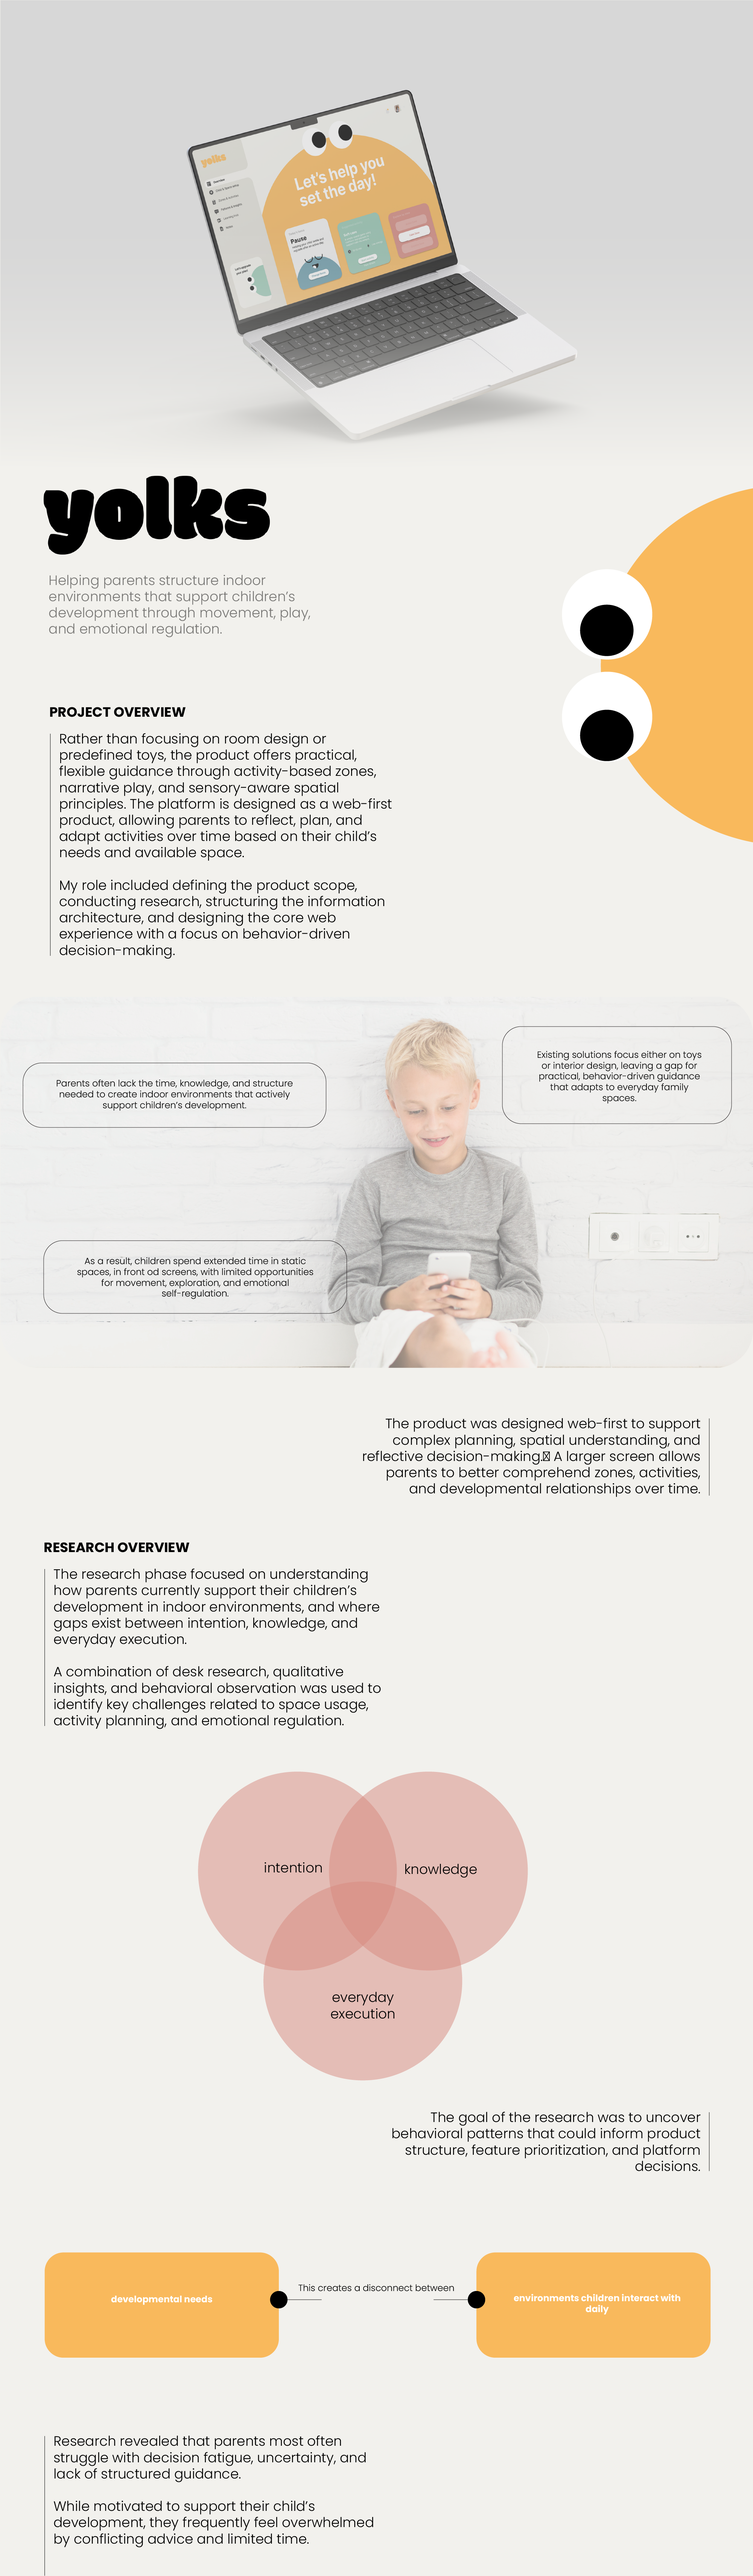
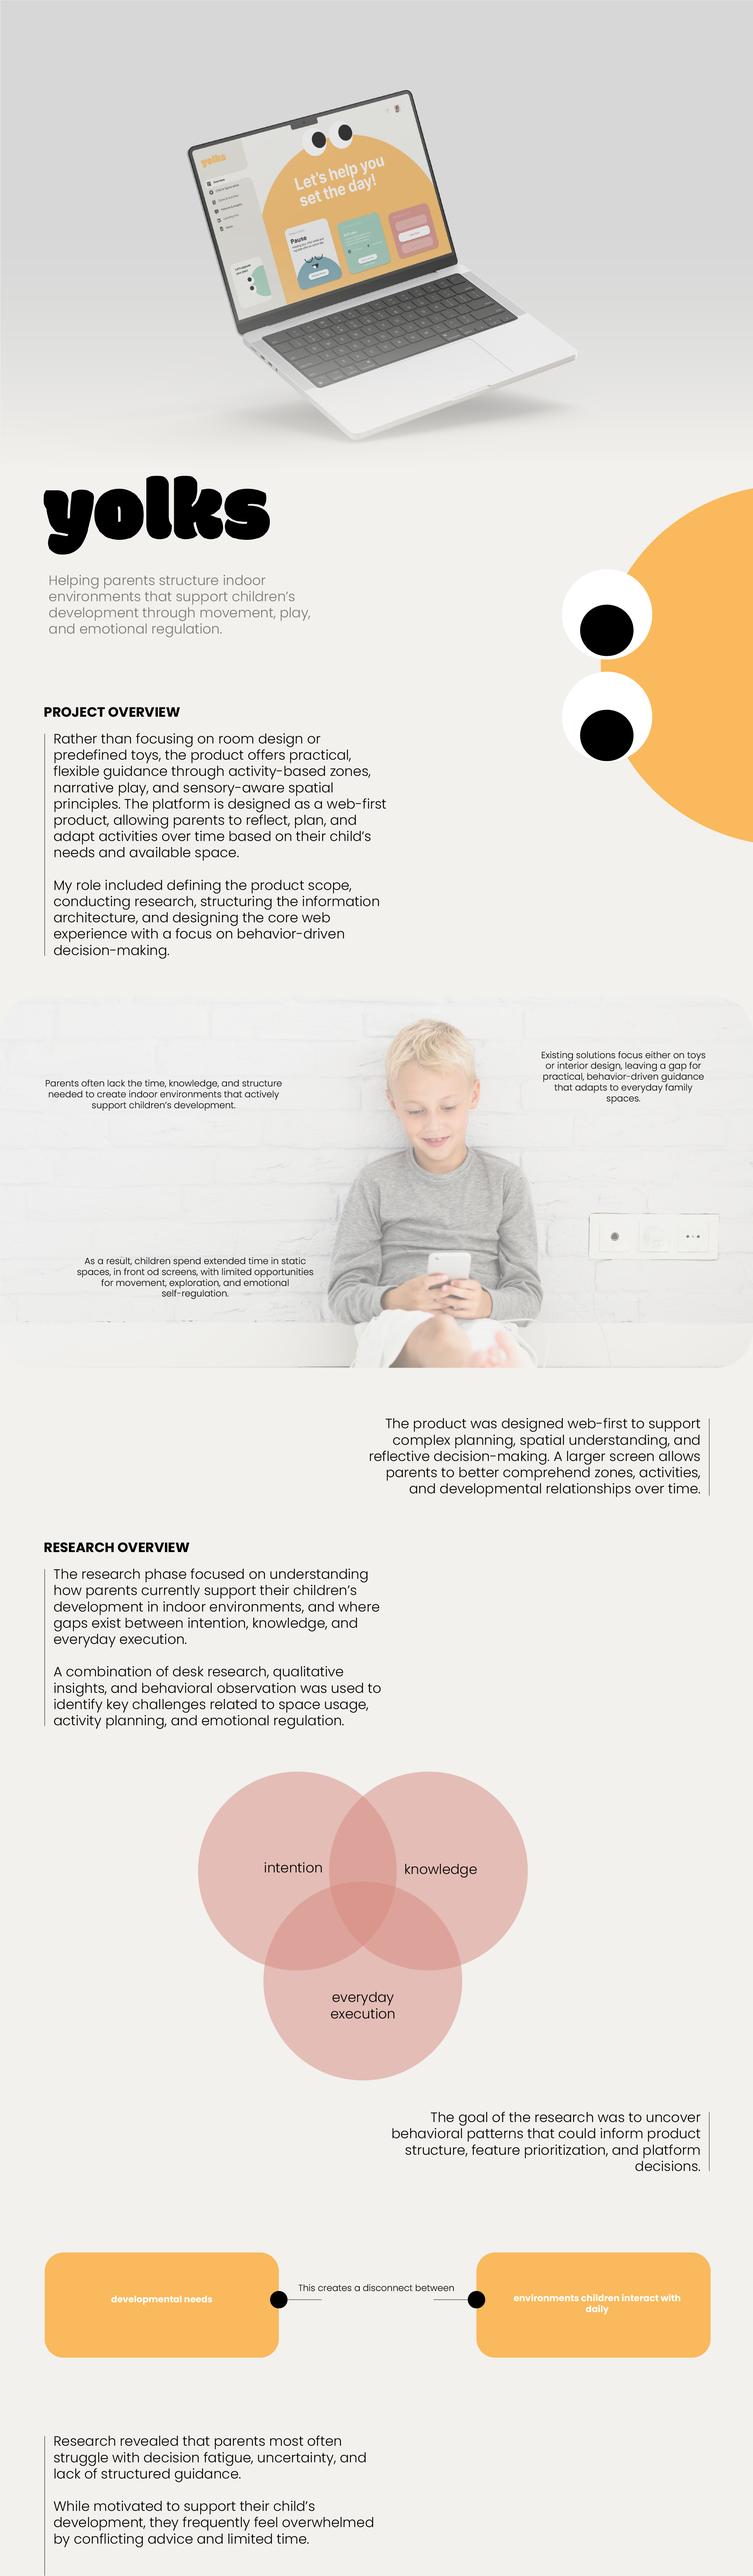
Update Yolks project.

Changed region(s): [[0.062, 0.2801, 0.4958, 0.3735], [0.7126, 0.4046, 0.9295, 0.4358], [0.1239, 0.4046, 0.3408, 0.4358]]

diff --git a/src/pages/ProjectDetail.tsx b/src/pages/ProjectDetail.tsx
@@ -85,6 +85,7 @@ import yolks_01 from "@/assets/projects/yolks_01.webp?webp";
 import yolks_02 from "@/assets/projects/yolks_02.webp?webp";
 import yolks_03 from "@/assets/projects/yolks_03.webp?webp";
 import yolks_04 from "@/assets/projects/yolks_04.webp?webp";
+import yolks_05 from "@/assets/projects/yolks_05.webp?webp";
 
 
 const ProjectDetail = () => {
@@ -1237,6 +1238,7 @@ const ProjectDetail = () => {
       <img src={yolks_02} className="w-full h-auto" />
       <img src={yolks_03} className="w-full h-auto" />
       <img src={yolks_04} className="w-full h-auto" />
+      <img src={yolks_05} className="w-full h-auto" />
     </div>
   </section>
 )}
